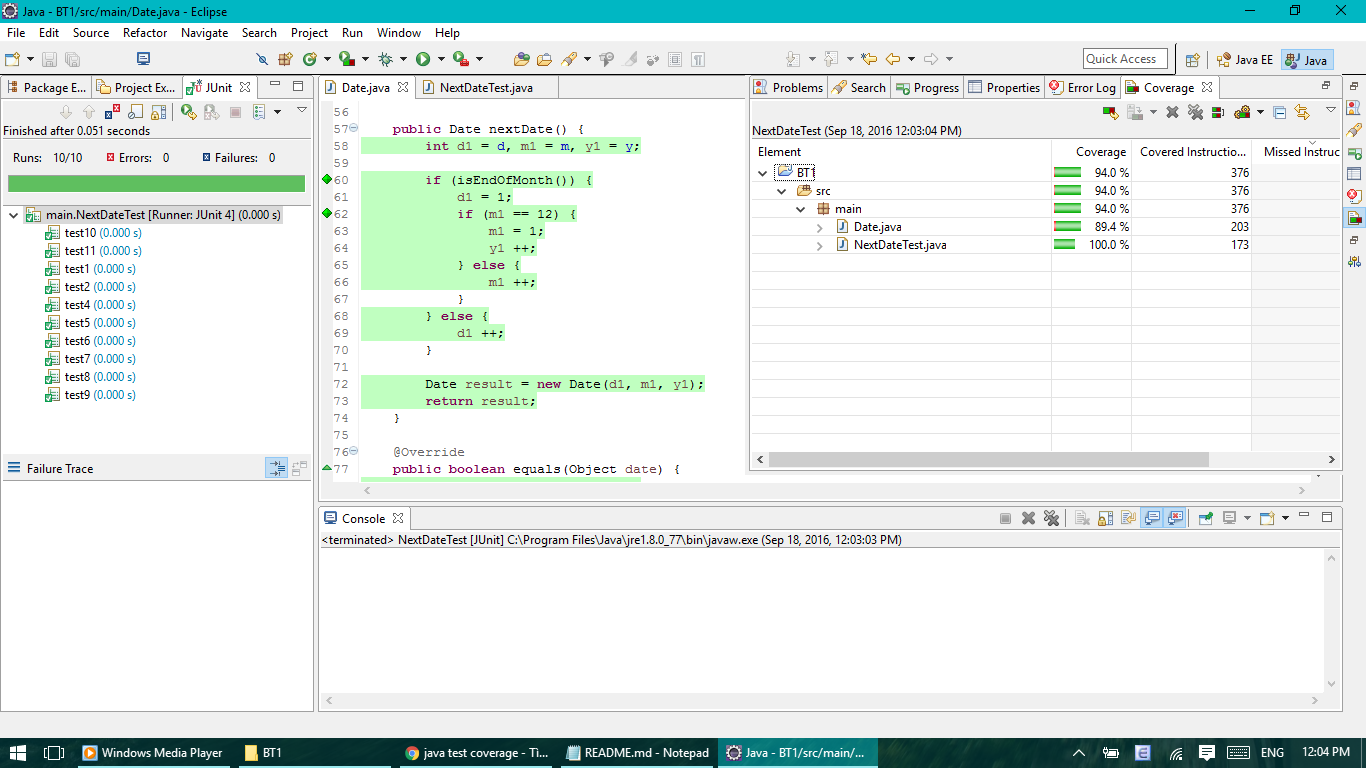
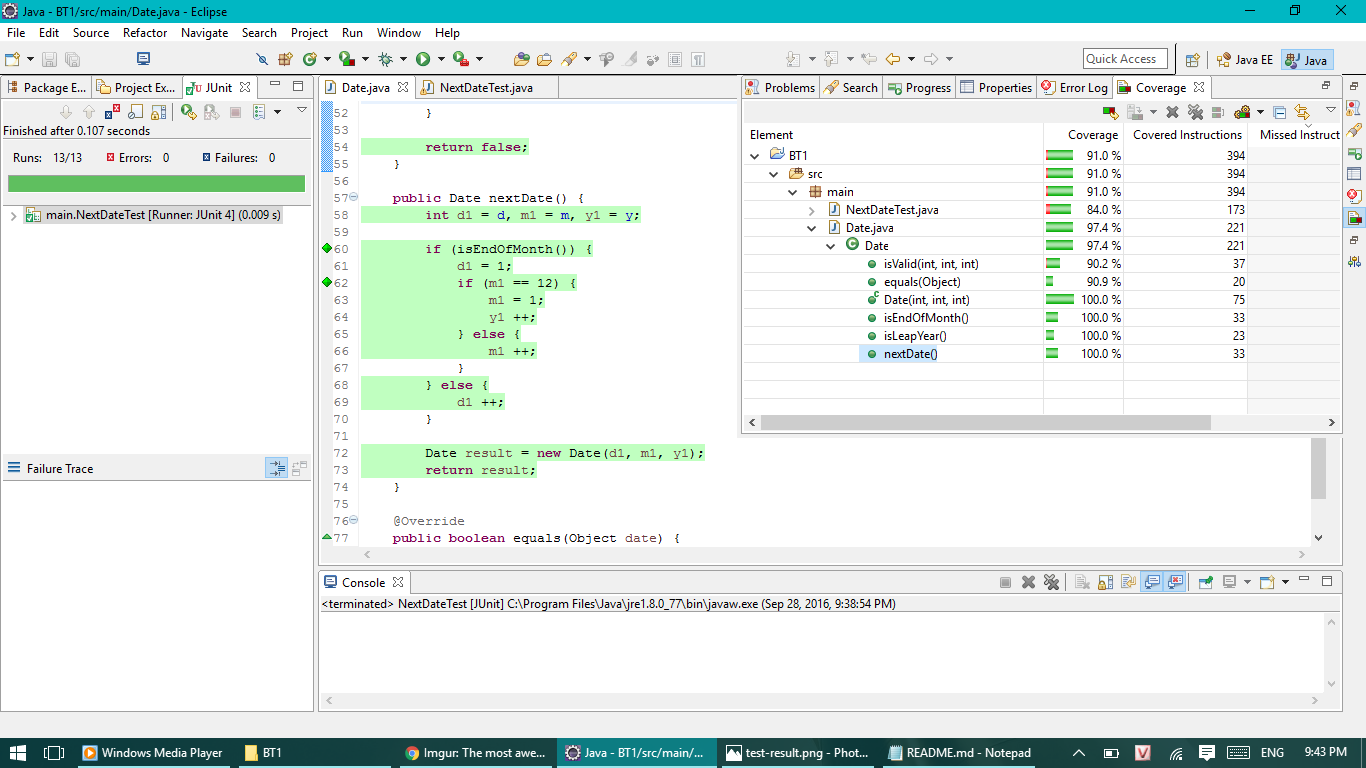
update BT1

diff --git a/NguyenVinhKhoa/BT1/src/main/NextDateTest.java b/NguyenVinhKhoa/BT1/src/main/NextDateTest.java
@@ -5,80 +5,96 @@ import static org.junit.Assert.*;
 import org.junit.Test;
 
 public class NextDateTest {
+	/*
+	 * Cac testcase duoc danh so theo mo ta trong file README
+	 */
 
+	// Thang co 30 ngay, 1 <= ngay <= 29
 	@Test
 	public void test1() {
 		Date date = new Date(25, 6, 2004);
 		assertEquals(new Date(26, 6, 2004), date.nextDate());
 	}
 	
+	// Thang co 30 ngay, ngay 30 
 	@Test
 	public void test2() {
 		Date date = new Date(30, 6, 2000);
 		assertEquals(new Date(1, 7, 2000), date.nextDate());
 	}
 	
-//	@Test
-//	public void test3() {
-//		Date date = new Date(31, 6, 2000);
-//		assertEquals(new Date(26, 6, 2000), date.nextDate());
-//	}
+	// Thang co 30 ngay, ngay 31
+	@Test(expected=IllegalArgumentException.class)
+	public void test3() {
+		Date date = new Date(31, 6, 2000);
+		assertEquals(new Date(26, 6, 2000), date.nextDate());
+	}
 	
+	// Thang co 31 ngay khong phai thang 12, 1 <= ngay <= 30 
 	@Test
 	public void test4() {
 		Date date = new Date(25, 7, 2002);
 		assertEquals(new Date(26, 7, 2002), date.nextDate());
 	}
 	
+	// Thang co 31 ngay khong phai thang 12, ngay 31
 	@Test
 	public void test5() {
 		Date date = new Date(31, 7, 2000);
 		assertEquals(new Date(1, 8, 2000), date.nextDate());
 	}
 	
+	// Thang 12, 1 <= ngay <= 30
 	@Test
 	public void test6() {
 		Date date = new Date(25, 12, 2000);
 		assertEquals(new Date(26, 12, 2000), date.nextDate());
 	}
 	
+	// Thang 12, ngay 31
 	@Test
 	public void test7() {
 		Date date = new Date(31, 12, 2000);
 		assertEquals(new Date(1, 1, 2001), date.nextDate());
 	}
 	
+	// Thang 2, 1 <= ngay <= 27
 	@Test
 	public void test8() {
-		Date date = new Date(25, 2, 2000);
-		assertEquals(new Date(26, 2, 2000), date.nextDate());
+		Date date = new Date(25, 2, 2001);
+		assertEquals(new Date(26, 2, 2001), date.nextDate());
 	}
 	
+	// Thang 2, ngay 28, nam nhuan
 	@Test
 	public void test9() {
 		Date date = new Date(28, 2, 2000);
 		assertEquals(new Date(29, 2, 2000), date.nextDate());
 	}
 	
+	// Thang 2, ngay 28, nam thuong
 	@Test
 	public void test10() {
-		Date date = new Date(28, 2, 2001);
-		assertEquals(new Date(1, 3, 2001), date.nextDate());
+		Date date = new Date(28, 2, 1900);
+		assertEquals(new Date(1, 3, 1900), date.nextDate());
 	}
 	
+	// Thang 2, ngay 29, nam nhuan
 	@Test
 	public void test11() {
-		Date date = new Date(29, 2, 2000);
-		assertEquals(new Date(1, 3, 2000), date.nextDate());
+		Date date = new Date(29, 2, 2004);
+		assertEquals(new Date(1, 3, 2004), date.nextDate());
 	}
 	
-//	@Test
-//	public void test12() {
-//		Date date = new Date(29, 2, 2001);
-//	}
+	// Thang 2, ngay 29, nam thuong
+	@Test(expected=IllegalArgumentException.class)
+	public void test12() {
+		Date date = new Date(29, 2, 2001);
+	}
 	
-//	@Test
-//	public void test13() {
-//		Date date = new Date(30, 2, 2000);
-//	}
+	// Thang 2, 30 <= ngay <= 31
+	@Test(expected=IllegalArgumentException.class)
+	public void test13() {
+		Date date = new Date(30, 2, 2000);
+	}
 }

diff --git a/NguyenVinhKhoa/BT1/src/main/Date.java b/NguyenVinhKhoa/BT1/src/main/Date.java
@@ -7,13 +7,13 @@ public class Date {
 	private int[] numOfDays = {31, 28, 31, 30, 31, 30, 31, 31, 30, 31, 30, 31};
 	
 	public Date(int d, int m, int y) {
-		if (!isValid(d, m, y)) {
-			throw new IllegalArgumentException("Values for Date are invalid");
-		}
-		
 		this.d = d;
 		this.m = m;
 		this.y = y;
+
+		if (!isValid(d, m, y)) {
+			throw new IllegalArgumentException("Values for Date are invalid");
+		}
 	}
 
 	public boolean isLeapYear() {

diff --git a/NguyenVinhKhoa/BT1/README.md b/NguyenVinhKhoa/BT1/README.md
@@ -1,5 +1,6 @@
 Bài toán: Cho biết một ngày, tìm ngày tiếp theo.
-Phương pháp kiểm thử được sử dụng: **Bảng quyết định**
+
+Phương pháp kiểm thử được sử dụng: **Bảng quyết định**.
 
 ### Lý do
 -  Bài toán đặt ra nhiều trường hợp khác nhau cần xem xét.
@@ -7,7 +8,7 @@ Phương pháp kiểm thử được sử dụng: **Bảng quyết định**
 -  Các biến đầu vào có quan hệ logic (ngày, tháng, năm).
 
 ### Áp dụng
-##### B1: Xác định các điều kiện và giá trị của chúng
+#### B1: Xác định các điều kiện và giá trị của chúng
 
 Điều kiện | Giá trị
 --- | ---
@@ -18,7 +19,7 @@ M4 | Tháng 2
 
 Điều kiện | Giá trị
 --- | ---
-D1 | 1 < ngày < 27
+D1 | 1 < =ngày < =27
 D2 | Ngày 28
 D3 | Ngày 29
 D4 | Ngày 30
@@ -29,16 +30,16 @@ D5 | Ngày 31
 Y1 | Năm nhuận
 Y2 | Năm thường
 
-##### B2: Xác định số luật tối đa
-Số luật tối đa = 4 x 5 x 2 = 40 (luật)
+#### B2: Xác định số luật tối đa
+Số luật tối đa = 4 x 5 x 2 = 40 (luật).
 
-##### B3: Xác định các hành động
-- Tăng sô ngày lên 1.
+#### B3: Xác định các hành động
+- Tăng số ngày lên 1.
 - Tăng số tháng lên 1, ngày = 1.
-- Tăng sô năm lên 1, ngày = tháng = 1.
+- Tăng sốnăm lên 1, ngày = tháng = 1.
 - Không thể xảy ra.
 
-##### B4: Lập bảng và đơn giản hóa các luật
+#### B4: Lập bảng và đơn giản hóa các luật
 STT |  | 1 | 2 | 3 | 4 | 5 | 6 | 7 | 8 | 9 | 10 | 11 | 12 | 13
 --- | --- | --- | --- | --- | --- | --- | --- | --- | --- | --- | --- | --- | --- | --- | 
 Điều kiện | M | 1 | 1 | 1 | 2 | 2 | 3 | 3 | 4 | 4 | 4 | 4 | 4 | 4
@@ -50,10 +51,10 @@ Hành động|d++|x|||x||x||x|x|
 ||Không xảy ra|||x|||||||||x|x|
 
 ### Kết quả
-Sau khi test và chỉnh sửa lại code: pass các test case với test coverage = 89.4%.
+Sau khi test và chỉnh sửa lại code: pass 13/13 test case với độ bao phủ cho class `Date` là 97.4% và phương thức `nextDate()` là 100%.
 
-![alt text](http://i.imgur.com/j5rtLEq.png "Test Result")
+![alt text](http://i.imgur.com/c1gDyJ8.png "Test Result")
 
-Đồ thị cho nextDate().
+Đồ thị cho `nextDate()`.
 
 ![alt text](http://i.imgur.com/sBC8vIH.png "Source Code Graph")
